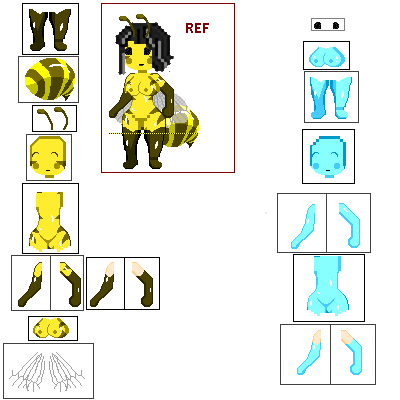
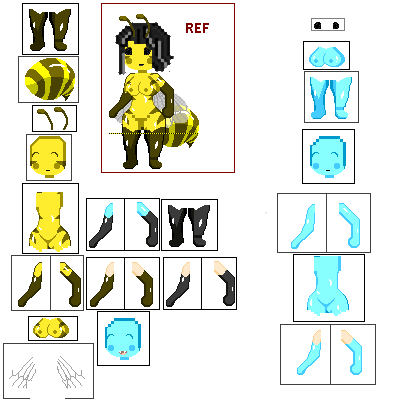
skin2, partial scales, demon tail

diff --git a/cocspred/spred.js b/cocspred/spred.js
@@ -5,6 +5,9 @@ function RGBA(i) {
         | (rgb.g & 0xff) << 8
         | (rgb.r & 0xff)) >>> 0;
 }
+function bound(min, x, max = Infinity) {
+    return min < x ? x < max ? x : max : min;
+}
 function randint(n) {
     return Math.floor(Math.random() * n);
 }
@@ -96,9 +99,9 @@ var spred;
         let hsl = tc.clone().toHsl();
         switch (name) {
             case 'lighten':
-                if (value == 0)
-                    return tc;
-                return tinycolor({ h: hsl.h, s: hsl.s, l: (1.0 - hsl.l) * 100 / value });
+                let l2a = hsl.l + (1.0 - hsl.l) * value / 100;
+                let l2b = bound(0, hsl.l + value / 100, 1);
+                return tinycolor({ h: hsl.h, s: hsl.s, l: Math.max(l2a, l2b) });
             case 'darken':
                 return tinycolor({ h: hsl.h, s: hsl.s, l: hsl.l * (100 - value) / 100 });
         }
@@ -975,10 +978,71 @@ var spred;
                 })));
             }
             selPart(model.layers[0].parts[0]);
-            addCompositeView(defaultPartList(), 2);
-            addCompositeView(defaultPartList(), 1);
-            addCompositeView(defaultPartList(), 1);
-            addCompositeView(defaultPartList(), 1);
+            addCompositeView([
+                'ears_bg/human',
+                'eyes/human',
+                'hair/0', 'hair_bg/0',
+                'face/human',
+                'breasts/D',
+                'arms/human', 'arms_bg/human',
+                'legs/human',
+                'torso/human'
+            ]);
+            addCompositeView([
+                'ears/orca',
+                'eyes/orca',
+                'hair/0', 'hair_bg/0',
+                'face/orca',
+                'breasts/D',
+                'arms/orca', 'arms_bg/orca', 'arms/fins-orca', 'arms_bg/fins-orca',
+                'legs/orca',
+                'torso/orca',
+                'tail/orca'
+            ]);
+            addCompositeView([
+                'ears/cat',
+                'eyes/cat',
+                'hair/0', 'hair_bg/0',
+                'face/fur',
+                'breasts/Dfur',
+                'arms/fur', 'arms_bg/fur',
+                'legs/furpaws',
+                'torso/fur',
+                'tail/cat1', 'tail/cat2'
+            ]);
+            addCompositeView([
+                'ears/human',
+                'eyes/manticore',
+                'hair/0', 'hair_bg/0',
+                'face/human', 'neck/manticore',
+                'breasts/D',
+                'arms/manticore',
+                'legs/manticore_sit',
+                'torso/human',
+                'tail/manticore',
+                'wings/mantibig', 'wings_bg/mantibig'
+            ]);
+            addCompositeView([
+                'hair/gorgon', 'hair_bg/gorgon',
+                'eyes/cat',
+                'face/scales2',
+                'breasts/Dscales2',
+                'arms_bg/scales2', 'arms/scales2',
+                'legs/naga',
+                'torso/scales2'
+            ]);
+            addCompositeView([
+                'horns/2large',
+                'eyes/cat',
+                'face/scales',
+                'breasts/Dscales',
+                'arms/scales', 'arms_bg/scales',
+                'legs/scales',
+                'torso/scales',
+                'tail/reptile',
+                'wings/scales_right',
+                'wings_bg/scales_left',
+            ]);
             $('#ClipboardGrabber').on('paste', e => {
                 e.stopPropagation();
                 e.preventDefault();
